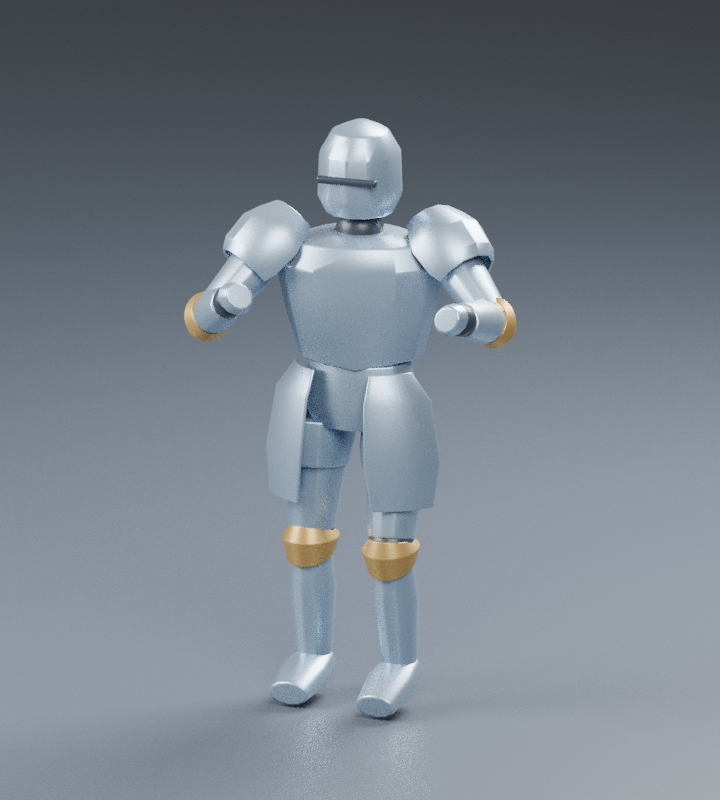
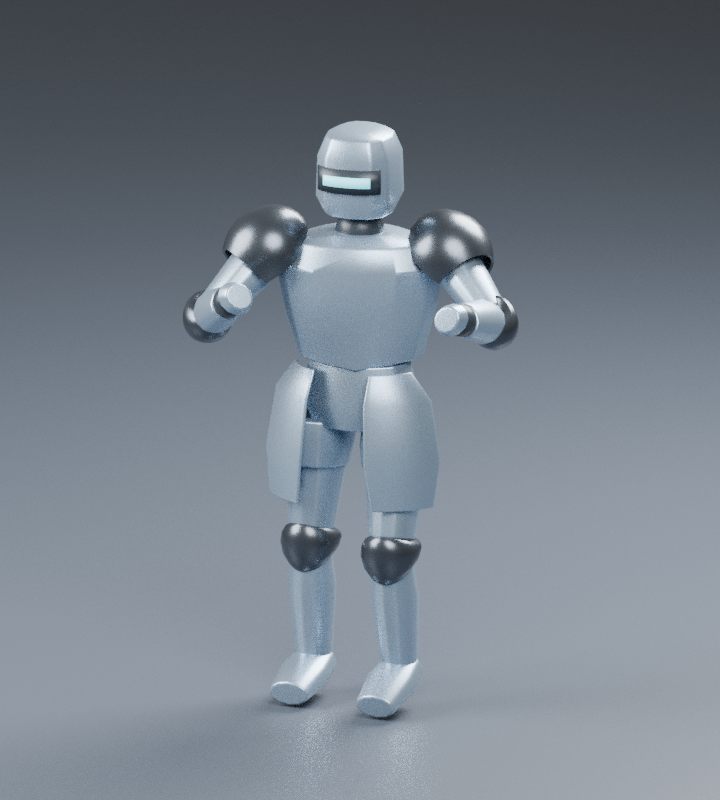
feat: refine poseable armor details

diff --git a/dev-samples/3d-stage1/rigged-armor/build.py b/dev-samples/3d-stage1/rigged-armor/build.py
@@ -100,9 +100,9 @@ def attach(obj, rig, bone_name, mat):
 def plate(rig, bone_name, name, rings, mat, joint_inner_front=None, open_ends=False):
     """Rings in bone coordinates: (distance along bone, half-width, half-depth)."""
     matrix = rig.data.bones[bone_name].matrix_local
-    count = 32 if joint_inner_front is not None else 12
+    count = 32 if joint_inner_front is not None or open_ends else 12
     verts = [matrix @ Vector((width*math.sin(i*2*math.pi/count),
-                             along * (.85 + (-.55 if joint_inner_front else .55) *
+                             along * (.95 + (-.80 if joint_inner_front else .80) *
                                       math.cos(i*2*math.pi/count)
                                       if joint_inner_front is not None else 1),
                              depth*math.cos(i*2*math.pi/count)))
@@ -180,7 +180,8 @@ def diagonal_waist_plates(rig, mat):
 
 def build_armor(rig):
     steel = material('Satin steel', (.32, .43, .55), .75)
-    trim = material('Brass edges', (.48, .30, .09), .65)
+    trim = material('Blackened joint steel', (.09, .105, .125), .85)
+    trim.node_tree.nodes.get('Principled BSDF').inputs['Roughness'].default_value = .28
     dark = material('Dark joint lining', (.025, .034, .045), .15)
     plate(rig, 'pelvis', 'Hip armor', [(0,.17,.12),(.08,.19,.14),(.205,.16,.12)], steel)
     plate(rig, 'waist', 'Flexible waist lining', [(0,.135,.10),(.16,.145,.11)], dark)
@@ -195,15 +196,43 @@ def build_armor(rig):
         vertex.co.x *= 1.1
     breastplate.data.update()
     joint(rig, 'neck', .075, dark)
-    plate(rig, 'head', 'Helmet', [(-.035,.10,.105),(.025,.13,.13),
-          (.15,.125,.13),(.22,.085,.09),(.245,.025,.035)], steel)
+    helmet_rings = [(-.035,.10,.105),(.025,.13,.13),
+                    (.15,.125,.13),(.21,.10,.105),(.23,.055,.06)]
+    helmet = plate(rig, 'head', 'Helmet', helmet_rings, steel)
+    matrix = rig.data.bones['head'].matrix_local
+    for row, (along, width, depth) in enumerate(helmet_rings):
+        for i in range(12):
+            angle = i * 2 * math.pi / 12
+            x, z = math.sin(angle), math.cos(angle)
+            helmet.data.vertices[row * 12 + i].co = matrix @ Vector((
+                width * math.copysign(abs(x) ** .8, x), along,
+                depth * math.copysign(abs(z) ** .8, z)))
+    helmet.data.update()
     # Visor follows head, with front toward -Y in world space.
-    bpy.ops.mesh.primitive_cube_add(size=1, location=(0,-.126,1.66))
-    visor = bpy.context.object
-    visor.name = 'Visor slit'
-    visor.scale = (.19,.025,.023)
-    bpy.ops.object.transform_apply(location=False, rotation=False, scale=True)
-    attach(visor, rig, 'head', dark)
+    def curved_visor(name, width, height, offset, mat):
+        vertices = []
+        for z in (1.66 - height / 2, 1.66 + height / 2):
+            for i in range(25):
+                x = width * (i / 24 - .5)
+                y = -.13 * (1 - (abs(x) / .128) ** 2.5) ** .4 - offset
+                vertices.append((x, y, z))
+        mesh = bpy.data.meshes.new(name)
+        mesh.from_pydata(vertices, [], [(i, i + 1, i + 26, i + 25) for i in range(24)])
+        mesh.update()
+        obj = bpy.data.objects.new(name, mesh)
+        bpy.context.collection.objects.link(obj)
+        attach(obj, rig, 'head', mat)
+        obj.modifiers['Forged edge'].width = .002
+        shell = obj.modifiers.new('Visor thickness', 'SOLIDIFY')
+        shell.thickness = .004
+        for face in mesh.polygons:
+            face.use_smooth = True
+    curved_visor('Visor curved rim', .20, .075, .008, dark)
+    glow = material('Visor pale cyan', (.22, .68, .78))
+    shader = glow.node_tree.nodes.get('Principled BSDF')
+    shader.inputs['Emission Color'].default_value = (.12, .65, .8, 1)
+    shader.inputs['Emission Strength'].default_value = 1.5
+    curved_visor('Visor illuminated opening', .15, .032, .014, glow)
     for side in ('L','R'):
         for part, radius in [('upper_arm',.085),('forearm',.062),('hand',.05),
                              ('thigh',.085),('shin',.075),('foot',.055)]:
@@ -216,19 +245,29 @@ def build_armor(rig):
                   [(.045,width*.85,depth*.85),(length*.4,width,depth),
                    (length-.025,width*.75,depth*.8)], steel)
         plate(rig, f'upper_arm.{side}', f'Pauldron {side}',
-              [(-.0825,.075,.085),(-.035,.10,.105),(.015,.12,.12),
-               (.095,.115,.105),(.13,.095,.085)], steel, open_ends=True)
+              [(-.095,.008,.008),(-.088,.04,.04),(-.07,.07,.07),
+               (-.04,.095,.095),(0,.115,.115),(.04,.122,.122),
+               (.08,.117,.113),(.11,.105,.098),(.13,.095,.085)],
+              trim, open_ends=True)
         plate(rig, f'shin.{side}', f'Knee cap {side}',
-              [(-.035,.065,.075),(0,.087,.095),(.055,.075,.08)], trim,
+              [(-.035,.057,.065),(-.028,.073,.082),(-.012,.086,.095),
+               (.01,.091,.10),(.032,.086,.094),(.048,.073,.08),(.055,.062,.068)], trim,
               joint_inner_front=False)
         plate(rig, f'forearm.{side}', f'Elbow cap {side}',
-              [(-.025,.055,.065),(.015,.075,.08),(.05,.06,.065)], trim,
+              [(-.025,.045,.052),(-.018,.061,.068),(-.004,.073,.08),
+               (.014,.078,.085),(.032,.072,.079),(.045,.058,.064),(.05,.049,.055)], trim,
               joint_inner_front=True)
         plate(rig, f'foot.{side}', f'Sabaton {side}',
               [(-.025,.065,.055),(.075,.08,.06),(.20,.065,.04)], steel)
         # Separate tassets follow each thigh, leaving the hip free to rotate.
         plate(rig, f'thigh.{side}', f'Tasset {side}',
               [(.015,.105,.13),(.09,.11,.135),(.16,.10,.12)], steel)
+    for obj in bpy.context.scene.objects:
+        if obj.name.startswith(('Pauldron ', 'Knee cap ', 'Elbow cap ')):
+            bevel = obj.modifiers['Forged edge']
+            bevel.width, bevel.segments = .014, 4
+            for face in obj.data.polygons:
+                face.use_smooth = len(face.vertices) == 4
 
 
 POSES = {

diff --git a/dev-samples/3d-stage1/rigged-armor/README.md b/dev-samples/3d-stage1/rigged-armor/README.md
@@ -25,7 +25,8 @@ Rotation で回転させる。回転はボーンのローカル座標。
 `L` は本人の左。Z が上、−Y が正面。鎖骨・胸・頭も独立ボーン。
 肘と膝には Limit Rotation を設定し、他の2軸を固定している。
 肩当ては上腕、肘当ては前腕、膝当てはすね、腰下の装甲は左右の太ももに追従する。
-金色の肘当てと膝当ては、曲がる内側の幅を狭く、外側を広くした形状。
+肩当て・肘当て・膝当ては丸みのある黒っぽい金属製。
+肘当てと膝当ては、曲がる内側の幅を狭く、外側を広くした形状。
 肩当ては胸側の側面を切り欠いた中空の外装で、腕の付け根が入る余地を設けている。
 胸甲は腹部まで伸ばし、正面の下端は中央が少し下がる浅いV字にしている。
 左右の斜め前には、骨盤に固定した湾曲プレートを追加している。
